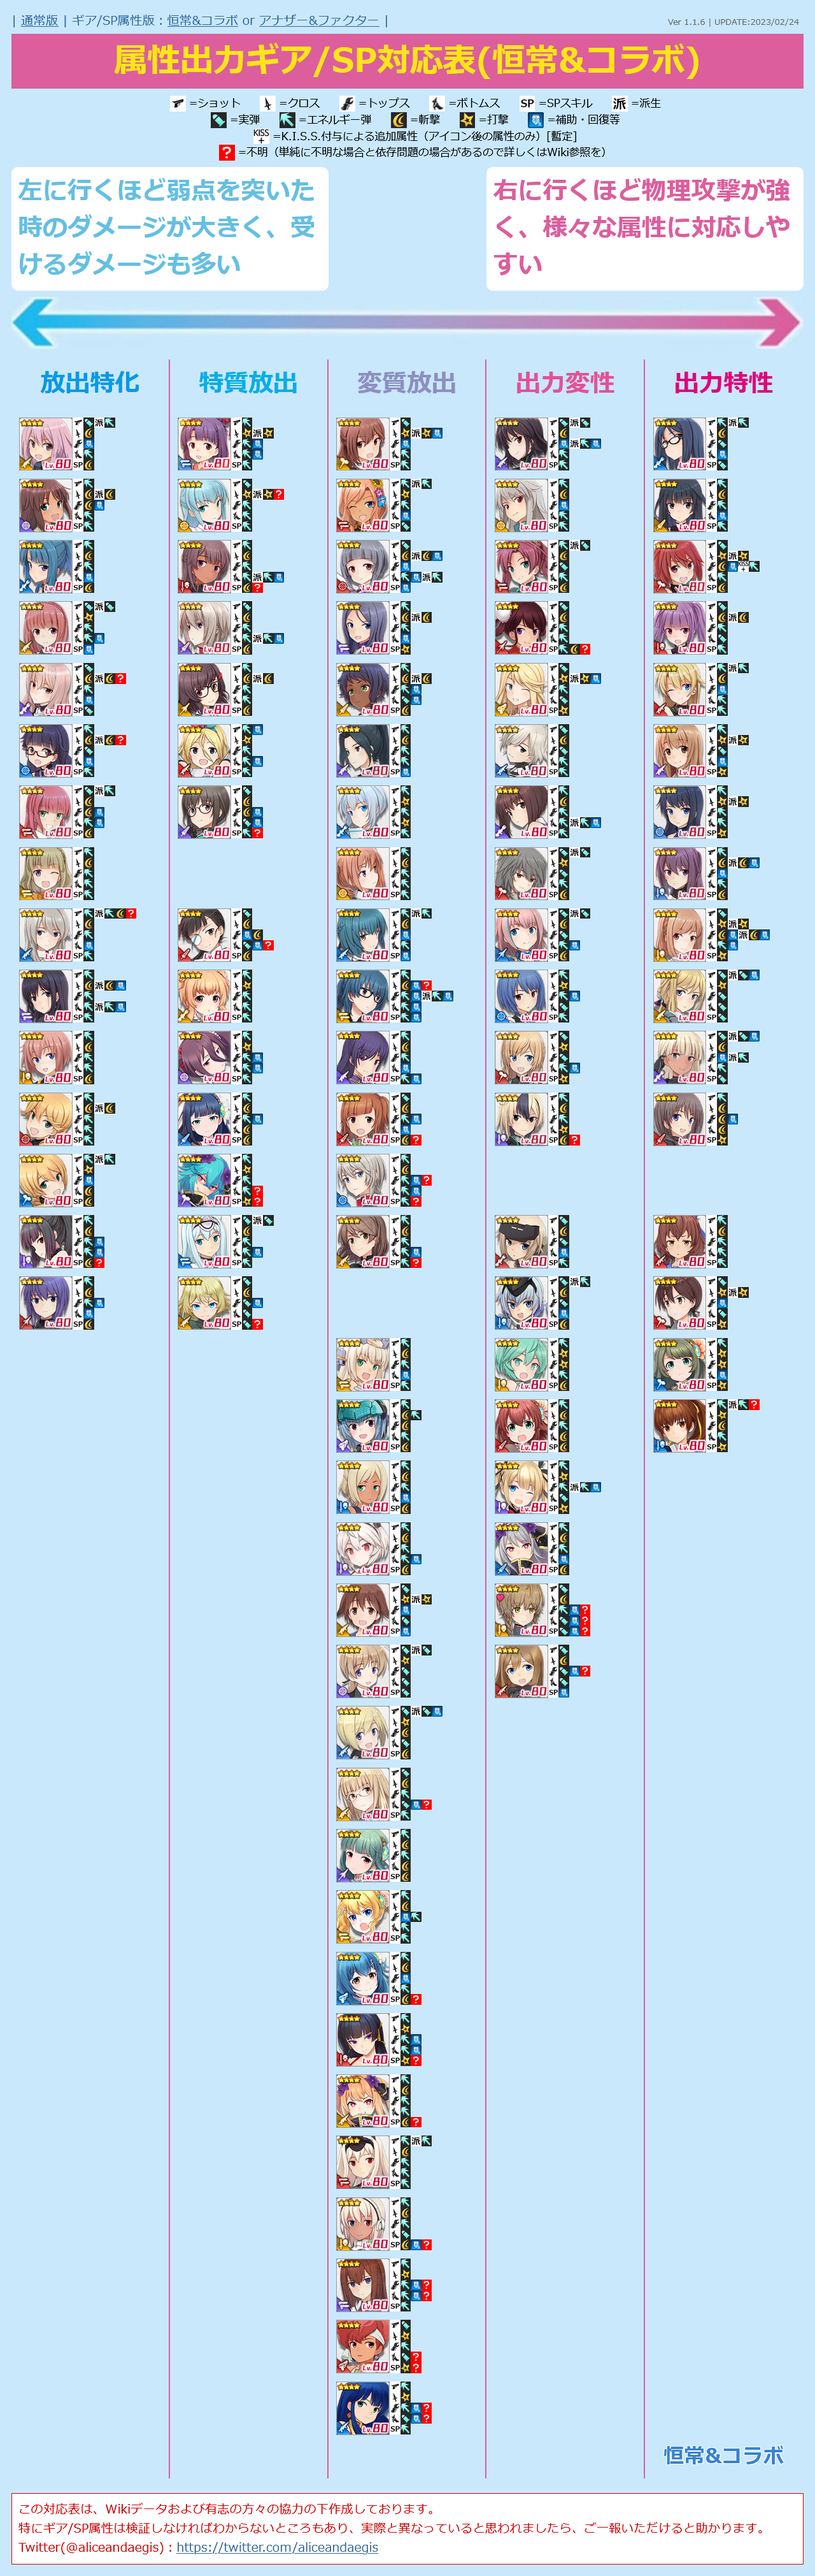
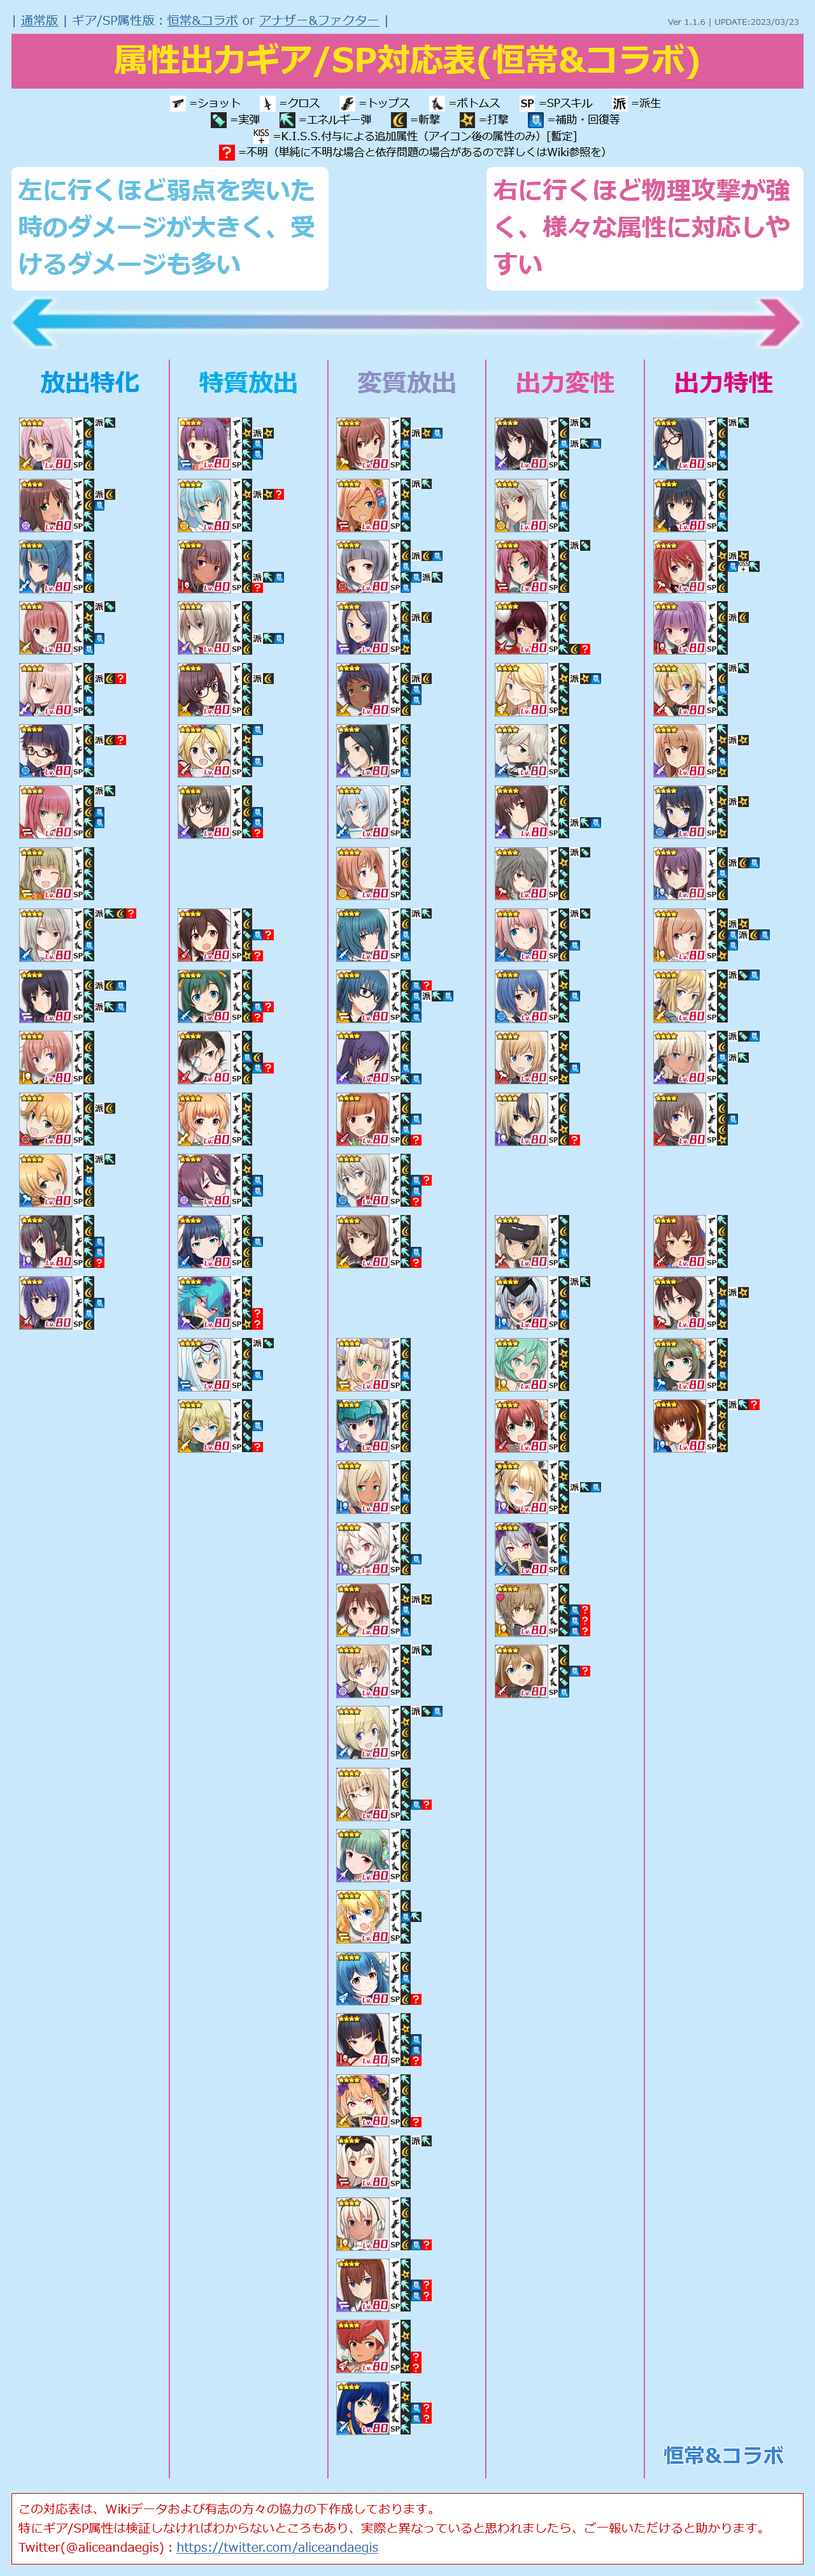
UPDATE charadata
・コラボキャラ 源内 あおを追加
・コラボキャラ 寿 武希子を追加

Changed region(s): [[0.2188, 0.343, 0.3438, 0.5612]]

diff --git a/alice.html b/alice.html
@@ -12,7 +12,7 @@
   <script>
 
 /* 更新情報 必要に応じて書き換えてください */
-  var version = "Ver 1.1.6 | UPDATE:2023/02/24";
+  var version = "Ver 1.1.6 | UPDATE:2023/03/23";
 
 
 /*
@@ -1836,12 +1836,40 @@
       "src": "normal-hresvelgr.png",
       "name": "フレズヴェルク",
       "equip1": "2",
-      "equip2": "32",
+      "equip2": "3",
       "equip3": "3",
       "equip4": "2",
       "sp": "3",
       "attr": "2",
       "link": "https://wikiwiki.jp/alicegear/%E3%83%95%E3%83%AC%E3%82%BA%E3%83%B4%E3%82%A7%E3%83%AB%E3%82%AF",
+      "category": "99"
+    },
+    {
+      "id": "105",
+      "type": "2",
+      "src": "normal-ao.png",
+      "name": "源内 あお",
+      "equip1": "1",
+      "equip2": "3",
+      "equip3": "15?",
+      "equip4": "3",
+      "sp": "4?",
+      "attr": "3",
+      "link": "https://wikiwiki.jp/alicegear/%E6%BA%90%E5%86%85%E3%81%82%E3%81%8A",
+      "category": "99"
+    },
+    {
+      "id": "106",
+      "type": "2",
+      "src": "normal-bukiko.png",
+      "name": "寿 武希子",
+      "equip1": "2",
+      "equip2": "3",
+      "equip3": "1",
+      "equip4": "25?",
+      "sp": "3?",
+      "attr": "4",
+      "link": "https://wikiwiki.jp/alicegear/%E5%AF%BF%E6%AD%A6%E5%B8%8C%E5%AD%90",
       "category": "99"
     },
     {
